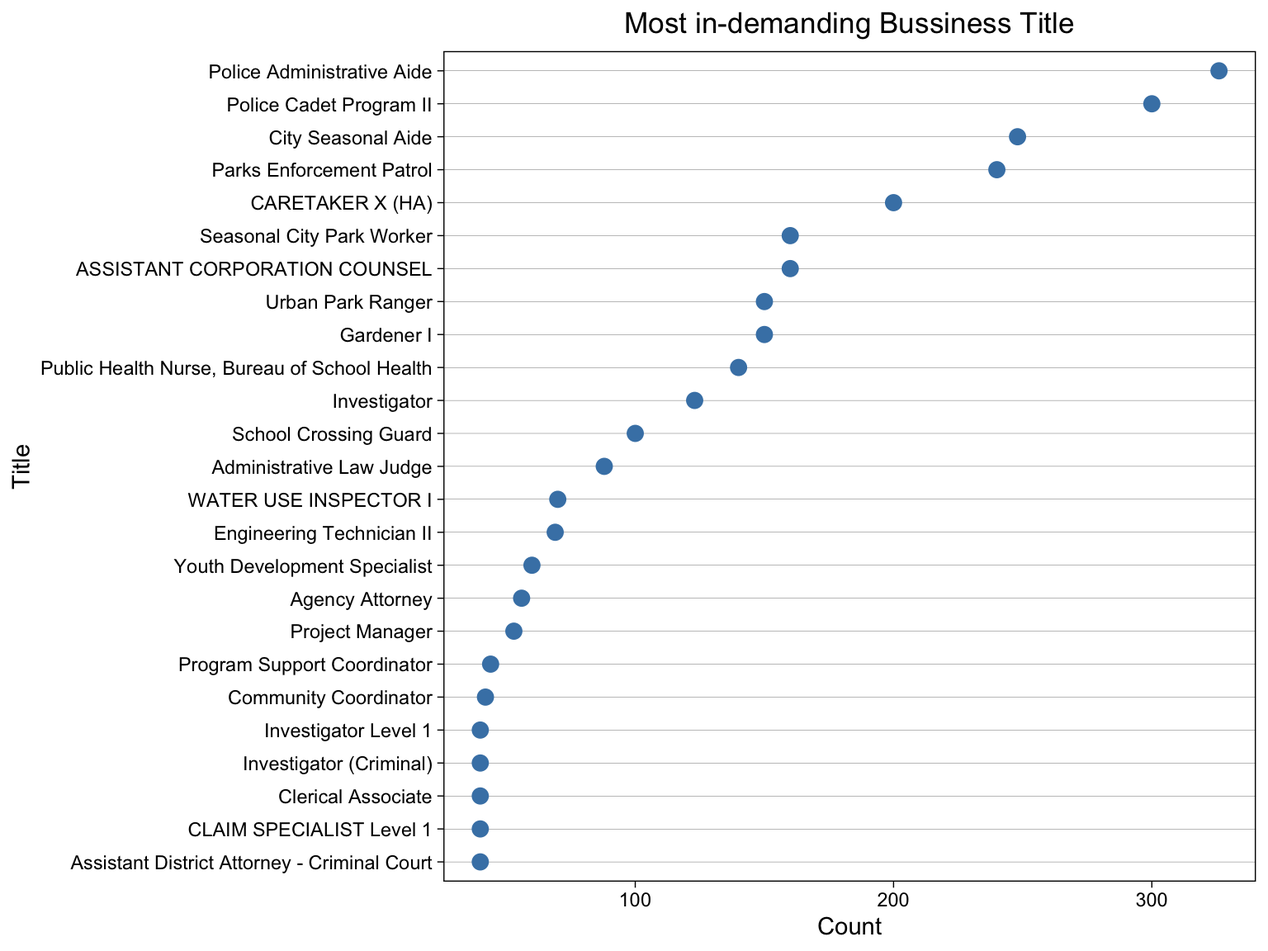
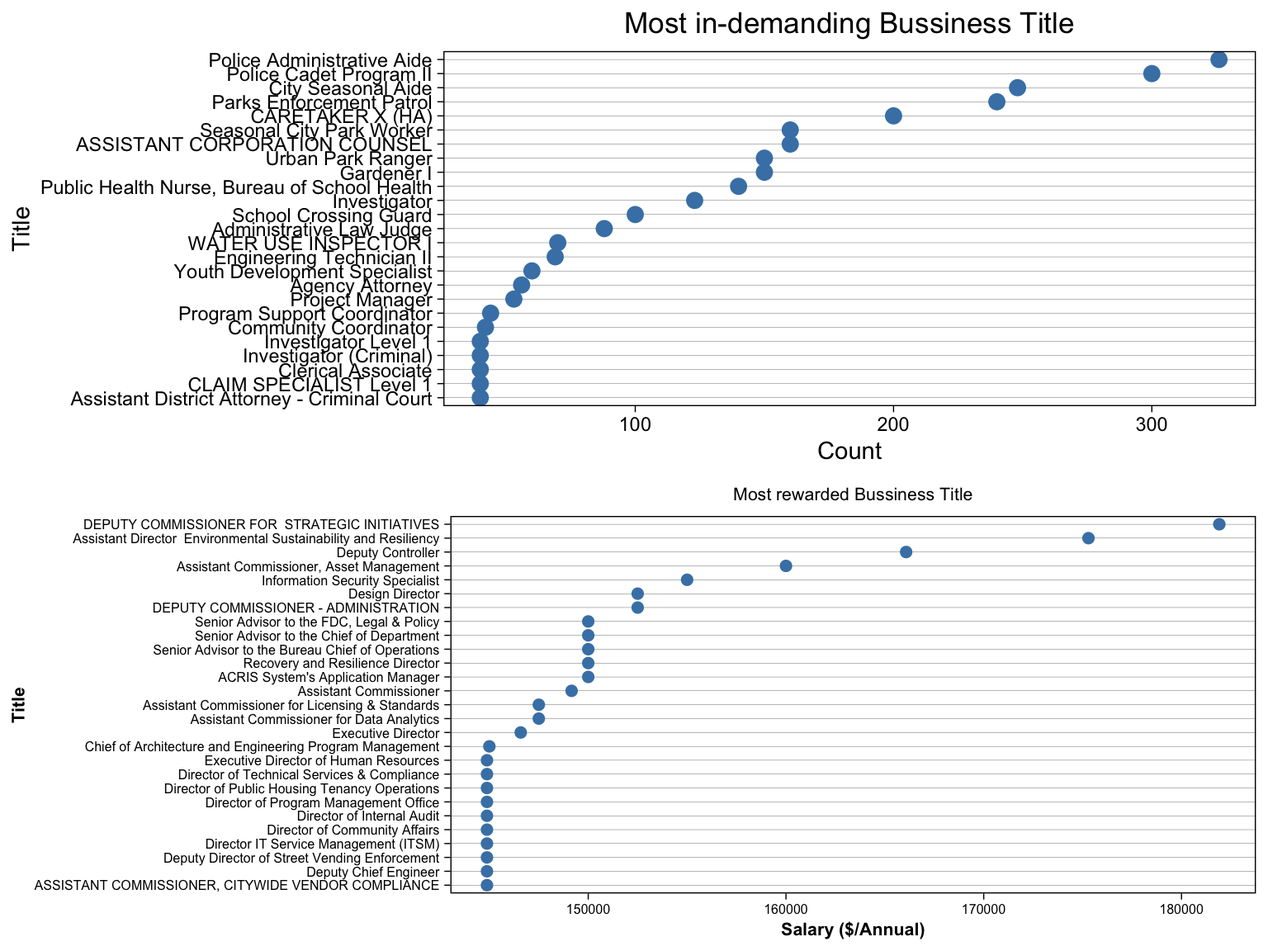
simple change

diff --git a/docs/results.html b/docs/results.html
@@ -101,15 +101,13 @@
 <li class="chapter" data-level="5.1.1" data-path="results.html"><a href="results.html#the-most-in-demanding-job-categories."><i class="fa fa-check"></i><b>5.1.1</b> The most in-demanding job categories.</a></li>
 <li class="chapter" data-level="5.1.2" data-path="results.html"><a href="results.html#the-top-25-in-demanding-business-title"><i class="fa fa-check"></i><b>5.1.2</b> The top 25 in-demanding business title</a></li>
 <li class="chapter" data-level="5.1.3" data-path="results.html"><a href="results.html#which-career-leavel-is-mostly-need-in-each-category"><i class="fa fa-check"></i><b>5.1.3</b> Which career leavel is mostly need in each Category</a></li>
+<li class="chapter" data-level="5.1.4" data-path="results.html"><a href="results.html#what-are-the-month-trends-of-job-openings"><i class="fa fa-check"></i><b>5.1.4</b> What are the month trends of job openings</a></li>
+<li class="chapter" data-level="5.1.5" data-path="results.html"><a href="results.html#lower-level-job-titles"><i class="fa fa-check"></i><b>5.1.5</b> Lower level job titles</a></li>
+<li class="chapter" data-level="5.1.6" data-path="results.html"><a href="results.html#higher-level-job-titles"><i class="fa fa-check"></i><b>5.1.6</b> higher level job titles</a></li>
 </ul></li>
-<li class="chapter" data-level="5.2" data-path="results.html"><a href="results.html#job-level-and-classification"><i class="fa fa-check"></i><b>5.2</b> Job level and classification</a>
+<li class="chapter" data-level="5.2" data-path="results.html"><a href="results.html#salary-of-jobs"><i class="fa fa-check"></i><b>5.2</b> Salary of jobs</a>
 <ul>
-<li class="chapter" data-level="5.2.1" data-path="results.html"><a href="results.html#lower-level-job-titles"><i class="fa fa-check"></i><b>5.2.1</b> Lower level job titles</a></li>
-<li class="chapter" data-level="5.2.2" data-path="results.html"><a href="results.html#higher-level-job-titles"><i class="fa fa-check"></i><b>5.2.2</b> higher level job titles</a></li>
-</ul></li>
-<li class="chapter" data-level="5.3" data-path="results.html"><a href="results.html#salary-of-jobs"><i class="fa fa-check"></i><b>5.3</b> Salary of jobs</a>
-<ul>
-<li class="chapter" data-level="5.3.1" data-path="results.html"><a href="results.html#distribution-of-salary"><i class="fa fa-check"></i><b>5.3.1</b> Distribution of salary</a></li>
+<li class="chapter" data-level="5.2.1" data-path="results.html"><a href="results.html#distribution-of-salary"><i class="fa fa-check"></i><b>5.2.1</b> Distribution of salary</a></li>
 </ul></li>
 </ul></li>
 <li class="chapter" data-level="6" data-path="interactive-component.html"><a href="interactive-component.html"><i class="fa fa-check"></i><b>6</b> Interactive component</a></li>
@@ -153,41 +151,43 @@
 </div>
 <div id="which-career-leavel-is-mostly-need-in-each-category" class="section level3" number="5.1.3">
 <h3><span class="header-section-number">5.1.3</span> Which career leavel is mostly need in each Category</h3>
-<p><img src="finalproj_files/figure-html/unnamed-chunk-13-1.png" width="768" style="display: block; margin: auto;" /></p>
-</div>
-</div>
-<div id="job-level-and-classification" class="section level2" number="5.2">
-<h2><span class="header-section-number">5.2</span> Job level and classification</h2>
-<p>In the dataset, each job post is categorized by two factor, Title Classification and Level. While classification represented by a number : Competitive - 1, Pending Classification - 2, Labor - 3, Exempt - 4 and Non-Competitive - 5 and higher leveling higher position in the agency structure.</p>
 <p><img src="finalproj_files/figure-html/unnamed-chunk-14-1.png" width="768" style="display: block; margin: auto;" /></p>
+</div>
+<div id="what-are-the-month-trends-of-job-openings" class="section level3" number="5.1.4">
+<h3><span class="header-section-number">5.1.4</span> What are the month trends of job openings</h3>
+<p><img src="finalproj_files/figure-html/unnamed-chunk-15-1.png" width="672" />
+## Job level and classification</p>
+<p>In the dataset, each job post is categorized by two factor, Title Classification and Level. While classification represented by a number : Competitive - 1, Pending Classification - 2, Labor - 3, Exempt - 4 and Non-Competitive - 5 and higher leveling higher position in the agency structure.</p>
+<p><img src="finalproj_files/figure-html/unnamed-chunk-16-1.png" width="768" style="display: block; margin: auto;" /></p>
 <p>Viewing data on level difference, we can see that among all level of jobs, labor and exempt title is quite small in amount. This could be related to the fact this data is collected by government agency focusing on goverment hiring, which indeed need less pure-labor worker than office workers.</p>
-<div id="lower-level-job-titles" class="section level3" number="5.2.1">
-<h3><span class="header-section-number">5.2.1</span> Lower level job titles</h3>
+</div>
+<div id="lower-level-job-titles" class="section level3" number="5.1.5">
+<h3><span class="header-section-number">5.1.5</span> Lower level job titles</h3>
 <p>On level 0 which represent part-time jobs, the competitive jobs and non-competitive jobs are almost even, this could be the fact that part-time worker is needed among all positions, creating a balanced distribution. On level 1 representing interns, the competitive jobs remains the same portion while unclassified jobs increase dramatically. This could be the nature of interns which newcomers are not fulling integrated in the agency’s system, thus creating lots of unclassified jobs.</p>
 </div>
-<div id="higher-level-job-titles" class="section level3" number="5.2.2">
-<h3><span class="header-section-number">5.2.2</span> higher level job titles</h3>
+<div id="higher-level-job-titles" class="section level3" number="5.1.6">
+<h3><span class="header-section-number">5.1.6</span> higher level job titles</h3>
 <p>On level 2-4 the competitive portion is significantly higher than lower level jobs. This indicate a competition intensive job environment in government agency, no matter mid to low lever full-time workers or higher level managment workser, they all have high competitive job percentage. Level 4 however do have a slightly lower competitve level compared to level 2 and 3, marking the highest managing works are less competitive. This could because of that level 4 jobs are rare and not much people are qualified and applied to those jobs.</p>
-<p><img src="finalproj_files/figure-html/unnamed-chunk-15-1.png" width="768" style="display: block; margin: auto;" /></p>
+<p><img src="finalproj_files/figure-html/unnamed-chunk-17-1.png" width="768" style="display: block; margin: auto;" /></p>
 <p>Viewing from another perspective, we can see competitive positions - 5 are packed in level 0 jobs while non-competitive positions are evenly distributed among different levels except level 4. Unclassified titles are mostly in level 1 which is interns. This is mostly consistent with previous findings.</p>
 </div>
 </div>
-<div id="salary-of-jobs" class="section level2" number="5.3">
-<h2><span class="header-section-number">5.3</span> Salary of jobs</h2>
+<div id="salary-of-jobs" class="section level2" number="5.2">
+<h2><span class="header-section-number">5.2</span> Salary of jobs</h2>
 <p>One important factor people concerning when looking for jobs is the income. Different salary might affect people’s willing to apply for the job. Here we look into the salary column of the dataset.</p>
-<div id="distribution-of-salary" class="section level3" number="5.3.1">
-<h3><span class="header-section-number">5.3.1</span> Distribution of salary</h3>
+<div id="distribution-of-salary" class="section level3" number="5.2.1">
+<h3><span class="header-section-number">5.2.1</span> Distribution of salary</h3>
 <p>There’s three different kind of salary frequency: Annual, Daily and Hourly. Since Daily salary is few in number (24 entries), it is omitted in this analysis.</p>
-<div id="annual-salary" class="section level4" number="5.3.1.1">
-<h4><span class="header-section-number">5.3.1.1</span> Annual salary</h4>
-<p><img src="finalproj_files/figure-html/unnamed-chunk-16-1.png" width="672" /></p>
+<div id="annual-salary" class="section level4" number="5.2.1.1">
+<h4><span class="header-section-number">5.2.1.1</span> Annual salary</h4>
+<p><img src="finalproj_files/figure-html/unnamed-chunk-18-1.png" width="672" /></p>
 <p>This is a histogram of the expected salary each job position is willing to pay annually. The red line indicates the mean value of all values, and the blue line indicates the 50% AMI(Area Median Income) of a 5-person family in NYC. (Source: <a href="https://www1.nyc.gov/site/hpd/services-and-information/area-median-income.page" class="uri">https://www1.nyc.gov/site/hpd/services-and-information/area-median-income.page</a>) According to the agency giving this data, the value left of the blue line indicate “Very-Low-Income”.</p>
 <p>We can see in this graph that the expected salary is left-skewed distributed. This is normal since in an agency, there’s always more low-level worker than high-level workers. The mean value of all salary is higher than the “Low income line”, but not much. Most of the job positions still have around the 64450 dollars of annual income for a five people family, which is the blue line.</p>
 <p>Overall, the annual salary is quite balanced but realtivly low compared to the area income level.</p>
 </div>
-<div id="hourly-salary" class="section level4" number="5.3.1.2">
-<h4><span class="header-section-number">5.3.1.2</span> Hourly salary</h4>
-<p><img src="finalproj_files/figure-html/unnamed-chunk-17-1.png" width="672" /></p>
+<div id="hourly-salary" class="section level4" number="5.2.1.2">
+<h4><span class="header-section-number">5.2.1.2</span> Hourly salary</h4>
+<p><img src="finalproj_files/figure-html/unnamed-chunk-19-1.png" width="672" /></p>
 <p>This is the histogram of expected salary of hourly paid job positions. The red line is the mean, and the blue line is the 50% AMI in NYC (source: <a href="https://www.ziprecruiter.com/Salaries/Hourly-Salary--in-New-York" class="uri">https://www.ziprecruiter.com/Salaries/Hourly-Salary--in-New-York</a>). We can see that dispite being spreaded widely, a huge amount of hourly paid job receive a very low hourly salary of 18 dollars. There’s also some highly paid jobs increasing the mean, but compared to the large quantity they look more like outliers.</p>
 
 </div>

diff --git a/docs/404.html b/docs/404.html
@@ -101,15 +101,13 @@
 <li class="chapter" data-level="5.1.1" data-path="results.html"><a href="results.html#the-most-in-demanding-job-categories."><i class="fa fa-check"></i><b>5.1.1</b> The most in-demanding job categories.</a></li>
 <li class="chapter" data-level="5.1.2" data-path="results.html"><a href="results.html#the-top-25-in-demanding-business-title"><i class="fa fa-check"></i><b>5.1.2</b> The top 25 in-demanding business title</a></li>
 <li class="chapter" data-level="5.1.3" data-path="results.html"><a href="results.html#which-career-leavel-is-mostly-need-in-each-category"><i class="fa fa-check"></i><b>5.1.3</b> Which career leavel is mostly need in each Category</a></li>
+<li class="chapter" data-level="5.1.4" data-path="results.html"><a href="results.html#what-are-the-month-trends-of-job-openings"><i class="fa fa-check"></i><b>5.1.4</b> What are the month trends of job openings</a></li>
+<li class="chapter" data-level="5.1.5" data-path="results.html"><a href="results.html#lower-level-job-titles"><i class="fa fa-check"></i><b>5.1.5</b> Lower level job titles</a></li>
+<li class="chapter" data-level="5.1.6" data-path="results.html"><a href="results.html#higher-level-job-titles"><i class="fa fa-check"></i><b>5.1.6</b> higher level job titles</a></li>
 </ul></li>
-<li class="chapter" data-level="5.2" data-path="results.html"><a href="results.html#job-level-and-classification"><i class="fa fa-check"></i><b>5.2</b> Job level and classification</a>
+<li class="chapter" data-level="5.2" data-path="results.html"><a href="results.html#salary-of-jobs"><i class="fa fa-check"></i><b>5.2</b> Salary of jobs</a>
 <ul>
-<li class="chapter" data-level="5.2.1" data-path="results.html"><a href="results.html#lower-level-job-titles"><i class="fa fa-check"></i><b>5.2.1</b> Lower level job titles</a></li>
-<li class="chapter" data-level="5.2.2" data-path="results.html"><a href="results.html#higher-level-job-titles"><i class="fa fa-check"></i><b>5.2.2</b> higher level job titles</a></li>
-</ul></li>
-<li class="chapter" data-level="5.3" data-path="results.html"><a href="results.html#salary-of-jobs"><i class="fa fa-check"></i><b>5.3</b> Salary of jobs</a>
-<ul>
-<li class="chapter" data-level="5.3.1" data-path="results.html"><a href="results.html#distribution-of-salary"><i class="fa fa-check"></i><b>5.3.1</b> Distribution of salary</a></li>
+<li class="chapter" data-level="5.2.1" data-path="results.html"><a href="results.html#distribution-of-salary"><i class="fa fa-check"></i><b>5.2.1</b> Distribution of salary</a></li>
 </ul></li>
 </ul></li>
 <li class="chapter" data-level="6" data-path="interactive-component.html"><a href="interactive-component.html"><i class="fa fa-check"></i><b>6</b> Interactive component</a></li>

diff --git a/docs/conclusion.html b/docs/conclusion.html
@@ -101,15 +101,13 @@
 <li class="chapter" data-level="5.1.1" data-path="results.html"><a href="results.html#the-most-in-demanding-job-categories."><i class="fa fa-check"></i><b>5.1.1</b> The most in-demanding job categories.</a></li>
 <li class="chapter" data-level="5.1.2" data-path="results.html"><a href="results.html#the-top-25-in-demanding-business-title"><i class="fa fa-check"></i><b>5.1.2</b> The top 25 in-demanding business title</a></li>
 <li class="chapter" data-level="5.1.3" data-path="results.html"><a href="results.html#which-career-leavel-is-mostly-need-in-each-category"><i class="fa fa-check"></i><b>5.1.3</b> Which career leavel is mostly need in each Category</a></li>
+<li class="chapter" data-level="5.1.4" data-path="results.html"><a href="results.html#what-are-the-month-trends-of-job-openings"><i class="fa fa-check"></i><b>5.1.4</b> What are the month trends of job openings</a></li>
+<li class="chapter" data-level="5.1.5" data-path="results.html"><a href="results.html#lower-level-job-titles"><i class="fa fa-check"></i><b>5.1.5</b> Lower level job titles</a></li>
+<li class="chapter" data-level="5.1.6" data-path="results.html"><a href="results.html#higher-level-job-titles"><i class="fa fa-check"></i><b>5.1.6</b> higher level job titles</a></li>
 </ul></li>
-<li class="chapter" data-level="5.2" data-path="results.html"><a href="results.html#job-level-and-classification"><i class="fa fa-check"></i><b>5.2</b> Job level and classification</a>
+<li class="chapter" data-level="5.2" data-path="results.html"><a href="results.html#salary-of-jobs"><i class="fa fa-check"></i><b>5.2</b> Salary of jobs</a>
 <ul>
-<li class="chapter" data-level="5.2.1" data-path="results.html"><a href="results.html#lower-level-job-titles"><i class="fa fa-check"></i><b>5.2.1</b> Lower level job titles</a></li>
-<li class="chapter" data-level="5.2.2" data-path="results.html"><a href="results.html#higher-level-job-titles"><i class="fa fa-check"></i><b>5.2.2</b> higher level job titles</a></li>
-</ul></li>
-<li class="chapter" data-level="5.3" data-path="results.html"><a href="results.html#salary-of-jobs"><i class="fa fa-check"></i><b>5.3</b> Salary of jobs</a>
-<ul>
-<li class="chapter" data-level="5.3.1" data-path="results.html"><a href="results.html#distribution-of-salary"><i class="fa fa-check"></i><b>5.3.1</b> Distribution of salary</a></li>
+<li class="chapter" data-level="5.2.1" data-path="results.html"><a href="results.html#distribution-of-salary"><i class="fa fa-check"></i><b>5.2.1</b> Distribution of salary</a></li>
 </ul></li>
 </ul></li>
 <li class="chapter" data-level="6" data-path="interactive-component.html"><a href="interactive-component.html"><i class="fa fa-check"></i><b>6</b> Interactive component</a></li>

diff --git a/docs/data-sources.html b/docs/data-sources.html
@@ -101,15 +101,13 @@
 <li class="chapter" data-level="5.1.1" data-path="results.html"><a href="results.html#the-most-in-demanding-job-categories."><i class="fa fa-check"></i><b>5.1.1</b> The most in-demanding job categories.</a></li>
 <li class="chapter" data-level="5.1.2" data-path="results.html"><a href="results.html#the-top-25-in-demanding-business-title"><i class="fa fa-check"></i><b>5.1.2</b> The top 25 in-demanding business title</a></li>
 <li class="chapter" data-level="5.1.3" data-path="results.html"><a href="results.html#which-career-leavel-is-mostly-need-in-each-category"><i class="fa fa-check"></i><b>5.1.3</b> Which career leavel is mostly need in each Category</a></li>
+<li class="chapter" data-level="5.1.4" data-path="results.html"><a href="results.html#what-are-the-month-trends-of-job-openings"><i class="fa fa-check"></i><b>5.1.4</b> What are the month trends of job openings</a></li>
+<li class="chapter" data-level="5.1.5" data-path="results.html"><a href="results.html#lower-level-job-titles"><i class="fa fa-check"></i><b>5.1.5</b> Lower level job titles</a></li>
+<li class="chapter" data-level="5.1.6" data-path="results.html"><a href="results.html#higher-level-job-titles"><i class="fa fa-check"></i><b>5.1.6</b> higher level job titles</a></li>
 </ul></li>
-<li class="chapter" data-level="5.2" data-path="results.html"><a href="results.html#job-level-and-classification"><i class="fa fa-check"></i><b>5.2</b> Job level and classification</a>
+<li class="chapter" data-level="5.2" data-path="results.html"><a href="results.html#salary-of-jobs"><i class="fa fa-check"></i><b>5.2</b> Salary of jobs</a>
 <ul>
-<li class="chapter" data-level="5.2.1" data-path="results.html"><a href="results.html#lower-level-job-titles"><i class="fa fa-check"></i><b>5.2.1</b> Lower level job titles</a></li>
-<li class="chapter" data-level="5.2.2" data-path="results.html"><a href="results.html#higher-level-job-titles"><i class="fa fa-check"></i><b>5.2.2</b> higher level job titles</a></li>
-</ul></li>
-<li class="chapter" data-level="5.3" data-path="results.html"><a href="results.html#salary-of-jobs"><i class="fa fa-check"></i><b>5.3</b> Salary of jobs</a>
-<ul>
-<li class="chapter" data-level="5.3.1" data-path="results.html"><a href="results.html#distribution-of-salary"><i class="fa fa-check"></i><b>5.3.1</b> Distribution of salary</a></li>
+<li class="chapter" data-level="5.2.1" data-path="results.html"><a href="results.html#distribution-of-salary"><i class="fa fa-check"></i><b>5.2.1</b> Distribution of salary</a></li>
 </ul></li>
 </ul></li>
 <li class="chapter" data-level="6" data-path="interactive-component.html"><a href="interactive-component.html"><i class="fa fa-check"></i><b>6</b> Interactive component</a></li>

diff --git a/docs/data-transformation.html b/docs/data-transformation.html
@@ -101,15 +101,13 @@
 <li class="chapter" data-level="5.1.1" data-path="results.html"><a href="results.html#the-most-in-demanding-job-categories."><i class="fa fa-check"></i><b>5.1.1</b> The most in-demanding job categories.</a></li>
 <li class="chapter" data-level="5.1.2" data-path="results.html"><a href="results.html#the-top-25-in-demanding-business-title"><i class="fa fa-check"></i><b>5.1.2</b> The top 25 in-demanding business title</a></li>
 <li class="chapter" data-level="5.1.3" data-path="results.html"><a href="results.html#which-career-leavel-is-mostly-need-in-each-category"><i class="fa fa-check"></i><b>5.1.3</b> Which career leavel is mostly need in each Category</a></li>
+<li class="chapter" data-level="5.1.4" data-path="results.html"><a href="results.html#what-are-the-month-trends-of-job-openings"><i class="fa fa-check"></i><b>5.1.4</b> What are the month trends of job openings</a></li>
+<li class="chapter" data-level="5.1.5" data-path="results.html"><a href="results.html#lower-level-job-titles"><i class="fa fa-check"></i><b>5.1.5</b> Lower level job titles</a></li>
+<li class="chapter" data-level="5.1.6" data-path="results.html"><a href="results.html#higher-level-job-titles"><i class="fa fa-check"></i><b>5.1.6</b> higher level job titles</a></li>
 </ul></li>
-<li class="chapter" data-level="5.2" data-path="results.html"><a href="results.html#job-level-and-classification"><i class="fa fa-check"></i><b>5.2</b> Job level and classification</a>
+<li class="chapter" data-level="5.2" data-path="results.html"><a href="results.html#salary-of-jobs"><i class="fa fa-check"></i><b>5.2</b> Salary of jobs</a>
 <ul>
-<li class="chapter" data-level="5.2.1" data-path="results.html"><a href="results.html#lower-level-job-titles"><i class="fa fa-check"></i><b>5.2.1</b> Lower level job titles</a></li>
-<li class="chapter" data-level="5.2.2" data-path="results.html"><a href="results.html#higher-level-job-titles"><i class="fa fa-check"></i><b>5.2.2</b> higher level job titles</a></li>
-</ul></li>
-<li class="chapter" data-level="5.3" data-path="results.html"><a href="results.html#salary-of-jobs"><i class="fa fa-check"></i><b>5.3</b> Salary of jobs</a>
-<ul>
-<li class="chapter" data-level="5.3.1" data-path="results.html"><a href="results.html#distribution-of-salary"><i class="fa fa-check"></i><b>5.3.1</b> Distribution of salary</a></li>
+<li class="chapter" data-level="5.2.1" data-path="results.html"><a href="results.html#distribution-of-salary"><i class="fa fa-check"></i><b>5.2.1</b> Distribution of salary</a></li>
 </ul></li>
 </ul></li>
 <li class="chapter" data-level="6" data-path="interactive-component.html"><a href="interactive-component.html"><i class="fa fa-check"></i><b>6</b> Interactive component</a></li>

diff --git a/docs/index.html b/docs/index.html
@@ -101,15 +101,13 @@
 <li class="chapter" data-level="5.1.1" data-path="results.html"><a href="results.html#the-most-in-demanding-job-categories."><i class="fa fa-check"></i><b>5.1.1</b> The most in-demanding job categories.</a></li>
 <li class="chapter" data-level="5.1.2" data-path="results.html"><a href="results.html#the-top-25-in-demanding-business-title"><i class="fa fa-check"></i><b>5.1.2</b> The top 25 in-demanding business title</a></li>
 <li class="chapter" data-level="5.1.3" data-path="results.html"><a href="results.html#which-career-leavel-is-mostly-need-in-each-category"><i class="fa fa-check"></i><b>5.1.3</b> Which career leavel is mostly need in each Category</a></li>
+<li class="chapter" data-level="5.1.4" data-path="results.html"><a href="results.html#what-are-the-month-trends-of-job-openings"><i class="fa fa-check"></i><b>5.1.4</b> What are the month trends of job openings</a></li>
+<li class="chapter" data-level="5.1.5" data-path="results.html"><a href="results.html#lower-level-job-titles"><i class="fa fa-check"></i><b>5.1.5</b> Lower level job titles</a></li>
+<li class="chapter" data-level="5.1.6" data-path="results.html"><a href="results.html#higher-level-job-titles"><i class="fa fa-check"></i><b>5.1.6</b> higher level job titles</a></li>
 </ul></li>
-<li class="chapter" data-level="5.2" data-path="results.html"><a href="results.html#job-level-and-classification"><i class="fa fa-check"></i><b>5.2</b> Job level and classification</a>
+<li class="chapter" data-level="5.2" data-path="results.html"><a href="results.html#salary-of-jobs"><i class="fa fa-check"></i><b>5.2</b> Salary of jobs</a>
 <ul>
-<li class="chapter" data-level="5.2.1" data-path="results.html"><a href="results.html#lower-level-job-titles"><i class="fa fa-check"></i><b>5.2.1</b> Lower level job titles</a></li>
-<li class="chapter" data-level="5.2.2" data-path="results.html"><a href="results.html#higher-level-job-titles"><i class="fa fa-check"></i><b>5.2.2</b> higher level job titles</a></li>
-</ul></li>
-<li class="chapter" data-level="5.3" data-path="results.html"><a href="results.html#salary-of-jobs"><i class="fa fa-check"></i><b>5.3</b> Salary of jobs</a>
-<ul>
-<li class="chapter" data-level="5.3.1" data-path="results.html"><a href="results.html#distribution-of-salary"><i class="fa fa-check"></i><b>5.3.1</b> Distribution of salary</a></li>
+<li class="chapter" data-level="5.2.1" data-path="results.html"><a href="results.html#distribution-of-salary"><i class="fa fa-check"></i><b>5.2.1</b> Distribution of salary</a></li>
 </ul></li>
 </ul></li>
 <li class="chapter" data-level="6" data-path="interactive-component.html"><a href="interactive-component.html"><i class="fa fa-check"></i><b>6</b> Interactive component</a></li>

diff --git a/docs/interactive-component.html b/docs/interactive-component.html
@@ -101,15 +101,13 @@
 <li class="chapter" data-level="5.1.1" data-path="results.html"><a href="results.html#the-most-in-demanding-job-categories."><i class="fa fa-check"></i><b>5.1.1</b> The most in-demanding job categories.</a></li>
 <li class="chapter" data-level="5.1.2" data-path="results.html"><a href="results.html#the-top-25-in-demanding-business-title"><i class="fa fa-check"></i><b>5.1.2</b> The top 25 in-demanding business title</a></li>
 <li class="chapter" data-level="5.1.3" data-path="results.html"><a href="results.html#which-career-leavel-is-mostly-need-in-each-category"><i class="fa fa-check"></i><b>5.1.3</b> Which career leavel is mostly need in each Category</a></li>
+<li class="chapter" data-level="5.1.4" data-path="results.html"><a href="results.html#what-are-the-month-trends-of-job-openings"><i class="fa fa-check"></i><b>5.1.4</b> What are the month trends of job openings</a></li>
+<li class="chapter" data-level="5.1.5" data-path="results.html"><a href="results.html#lower-level-job-titles"><i class="fa fa-check"></i><b>5.1.5</b> Lower level job titles</a></li>
+<li class="chapter" data-level="5.1.6" data-path="results.html"><a href="results.html#higher-level-job-titles"><i class="fa fa-check"></i><b>5.1.6</b> higher level job titles</a></li>
 </ul></li>
-<li class="chapter" data-level="5.2" data-path="results.html"><a href="results.html#job-level-and-classification"><i class="fa fa-check"></i><b>5.2</b> Job level and classification</a>
+<li class="chapter" data-level="5.2" data-path="results.html"><a href="results.html#salary-of-jobs"><i class="fa fa-check"></i><b>5.2</b> Salary of jobs</a>
 <ul>
-<li class="chapter" data-level="5.2.1" data-path="results.html"><a href="results.html#lower-level-job-titles"><i class="fa fa-check"></i><b>5.2.1</b> Lower level job titles</a></li>
-<li class="chapter" data-level="5.2.2" data-path="results.html"><a href="results.html#higher-level-job-titles"><i class="fa fa-check"></i><b>5.2.2</b> higher level job titles</a></li>
-</ul></li>
-<li class="chapter" data-level="5.3" data-path="results.html"><a href="results.html#salary-of-jobs"><i class="fa fa-check"></i><b>5.3</b> Salary of jobs</a>
-<ul>
-<li class="chapter" data-level="5.3.1" data-path="results.html"><a href="results.html#distribution-of-salary"><i class="fa fa-check"></i><b>5.3.1</b> Distribution of salary</a></li>
+<li class="chapter" data-level="5.2.1" data-path="results.html"><a href="results.html#distribution-of-salary"><i class="fa fa-check"></i><b>5.2.1</b> Distribution of salary</a></li>
 </ul></li>
 </ul></li>
 <li class="chapter" data-level="6" data-path="interactive-component.html"><a href="interactive-component.html"><i class="fa fa-check"></i><b>6</b> Interactive component</a></li>

diff --git a/docs/missing-values.html b/docs/missing-values.html
@@ -101,15 +101,13 @@
 <li class="chapter" data-level="5.1.1" data-path="results.html"><a href="results.html#the-most-in-demanding-job-categories."><i class="fa fa-check"></i><b>5.1.1</b> The most in-demanding job categories.</a></li>
 <li class="chapter" data-level="5.1.2" data-path="results.html"><a href="results.html#the-top-25-in-demanding-business-title"><i class="fa fa-check"></i><b>5.1.2</b> The top 25 in-demanding business title</a></li>
 <li class="chapter" data-level="5.1.3" data-path="results.html"><a href="results.html#which-career-leavel-is-mostly-need-in-each-category"><i class="fa fa-check"></i><b>5.1.3</b> Which career leavel is mostly need in each Category</a></li>
+<li class="chapter" data-level="5.1.4" data-path="results.html"><a href="results.html#what-are-the-month-trends-of-job-openings"><i class="fa fa-check"></i><b>5.1.4</b> What are the month trends of job openings</a></li>
+<li class="chapter" data-level="5.1.5" data-path="results.html"><a href="results.html#lower-level-job-titles"><i class="fa fa-check"></i><b>5.1.5</b> Lower level job titles</a></li>
+<li class="chapter" data-level="5.1.6" data-path="results.html"><a href="results.html#higher-level-job-titles"><i class="fa fa-check"></i><b>5.1.6</b> higher level job titles</a></li>
 </ul></li>
-<li class="chapter" data-level="5.2" data-path="results.html"><a href="results.html#job-level-and-classification"><i class="fa fa-check"></i><b>5.2</b> Job level and classification</a>
+<li class="chapter" data-level="5.2" data-path="results.html"><a href="results.html#salary-of-jobs"><i class="fa fa-check"></i><b>5.2</b> Salary of jobs</a>
 <ul>
-<li class="chapter" data-level="5.2.1" data-path="results.html"><a href="results.html#lower-level-job-titles"><i class="fa fa-check"></i><b>5.2.1</b> Lower level job titles</a></li>
-<li class="chapter" data-level="5.2.2" data-path="results.html"><a href="results.html#higher-level-job-titles"><i class="fa fa-check"></i><b>5.2.2</b> higher level job titles</a></li>
-</ul></li>
-<li class="chapter" data-level="5.3" data-path="results.html"><a href="results.html#salary-of-jobs"><i class="fa fa-check"></i><b>5.3</b> Salary of jobs</a>
-<ul>
-<li class="chapter" data-level="5.3.1" data-path="results.html"><a href="results.html#distribution-of-salary"><i class="fa fa-check"></i><b>5.3.1</b> Distribution of salary</a></li>
+<li class="chapter" data-level="5.2.1" data-path="results.html"><a href="results.html#distribution-of-salary"><i class="fa fa-check"></i><b>5.2.1</b> Distribution of salary</a></li>
 </ul></li>
 </ul></li>
 <li class="chapter" data-level="6" data-path="interactive-component.html"><a href="interactive-component.html"><i class="fa fa-check"></i><b>6</b> Interactive component</a></li>
